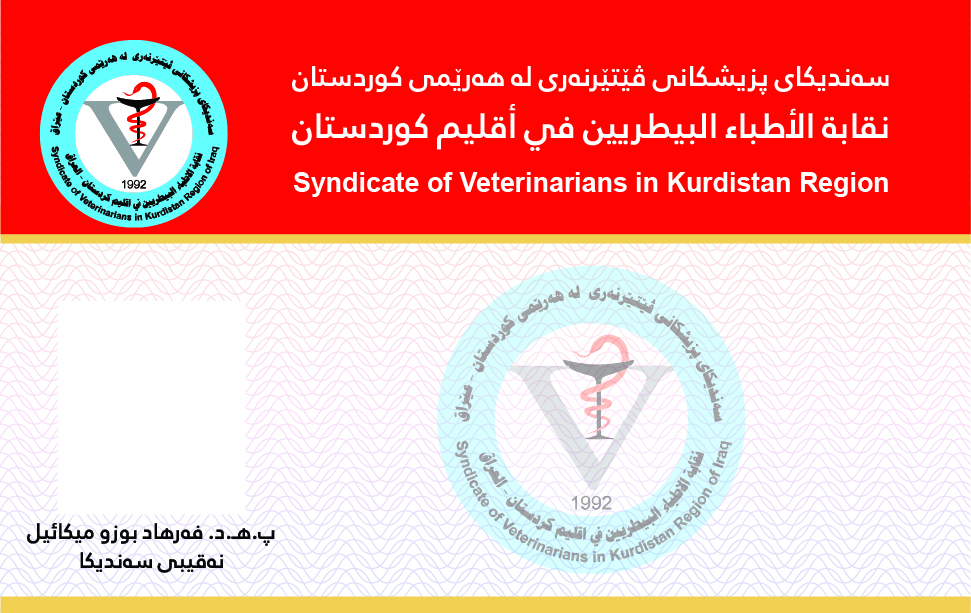
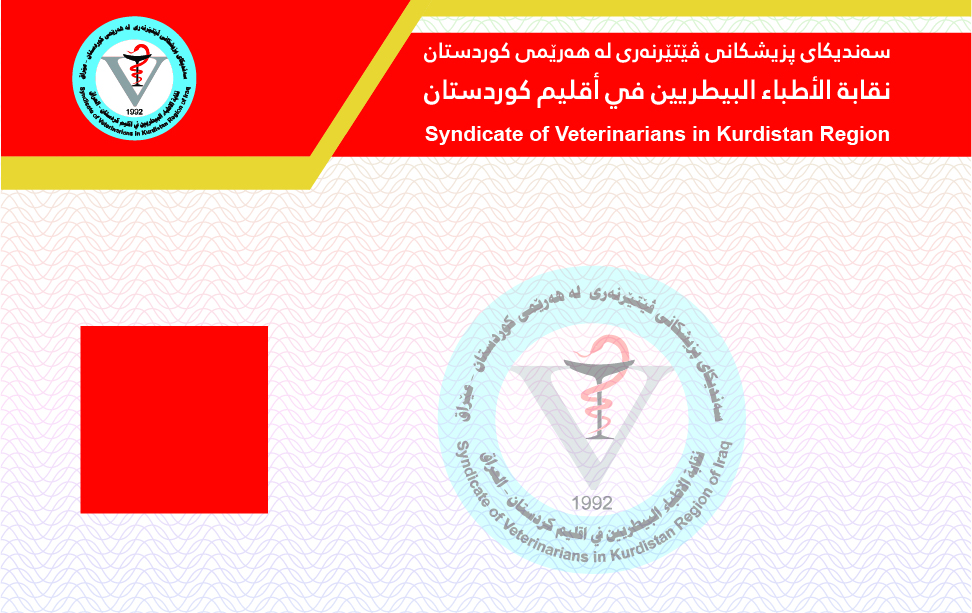
feat: enhance member ID card with blood group information and update city prefix mapping
- Added blood group information retrieval from linked applications to the member ID card.
- Updated city prefix mapping for member IDs to use full city codes (e.g., ERB, DUH, ZKO).
- Adjusted layout and positioning of elements on the member ID card for improved readability.

diff --git a/app/member-id-card/[id]/page.tsx b/app/member-id-card/[id]/page.tsx
@@ -16,6 +16,7 @@ interface MemberData {
   qrCodeId: string;
   issueDate: string;
   expiryDate: string;
+  bloodGroup: string | null;
   cityCode: string | null;
   qrDataUrl: string;
 }
@@ -227,20 +228,6 @@ export default function MemberIdCardPage() {
                 }}
               />
             )}
-
-            {/* Stamp — in front of photo */}
-            <img
-              src="/stamp.png"
-              alt="Stamp"
-              style={{
-                position: "absolute",
-                top: "100px", // ← STAMP vertical position
-                left: "85px", // ← STAMP horizontal position
-                width: "55px", // ← STAMP size
-                height: "55px",
-                opacity: 0.85,
-              }}
-            />
 
             {/* Signature — in front of photo */}
             <img
@@ -457,7 +444,7 @@ export default function MemberIdCardPage() {
             <div
               style={{
                 position: "absolute",
-                top: "160px",
+                top: "155px",
                 left: "140px",
                 right: "15px",
                 textAlign: "right",
@@ -470,12 +457,41 @@ export default function MemberIdCardPage() {
               {member.memberId}
             </div>
 
+            {/* Label: Blood Group */}
+            <div
+              style={{
+                ...labelStyle,
+                position: "absolute",
+                top: "175px",
+                left: "140px",
+              }}
+            >
+              B.G./گروپی خوێن/فصيلة الدم
+            </div>
+
+            {/* Blood Group Value */}
+            <div
+              style={{
+                position: "absolute",
+                top: "190px",
+                left: "140px",
+                right: "15px",
+                textAlign: "right",
+                fontSize: "13px",
+                fontWeight: "normal",
+                color: "#1a1a1a",
+                lineHeight: "1.2",
+              }}
+            >
+              {member.bloodGroup || "—"}
+            </div>
+
             {/* Label: بەرواری بەسەرچوون (Expiry Date) */}
             <div
               style={{
                 ...labelStyle,
                 position: "absolute",
-                top: "200px",
+                top: "210px",
                 left: "140px",
               }}
             >
@@ -486,7 +502,7 @@ export default function MemberIdCardPage() {
             <div
               style={{
                 position: "absolute",
-                top: "215px",
+                top: "225px",
                 left: "140px",
                 right: "15px",
                 textAlign: "right",

diff --git a/app/api/vet-members/[id]/id-card/route.ts b/app/api/vet-members/[id]/id-card/route.ts
@@ -1,7 +1,7 @@
 import { NextRequest, NextResponse } from "next/server";
 import { auth } from "@/lib/auth/auth";
 import { db } from "@/lib/db";
-import { vetMembers, cities } from "@/lib/db/schema";
+import { vetMembers, vetApplications, cities } from "@/lib/db/schema";
 import { eq } from "drizzle-orm";
 import QRCode from "qrcode";
 
@@ -43,6 +43,12 @@ export async function GET(
       .from(cities)
       .where(eq(cities.id, member.cityId));
 
+    // Get blood type from linked application
+    const [application] = await db
+      .select({ bloodType: vetApplications.bloodType })
+      .from(vetApplications)
+      .where(eq(vetApplications.id, member.applicationId));
+
     // Generate QR code as data URL (with caching)
     const baseUrl = process.env.NEXTAUTH_URL || "http://localhost:3000";
     const verifyUrl = `${baseUrl}/verify/${member.qrCodeId}`;
@@ -78,6 +84,7 @@ export async function GET(
         qrCodeId: member.qrCodeId,
         issueDate: member.issueDate,
         expiryDate: member.expiryDate,
+        bloodGroup: application?.bloodType || null,
         cityCode: city?.code || null,
         qrDataUrl: qrDataUrl,
       },

diff --git a/app/api/vet-applications/[id]/approve/route.ts b/app/api/vet-applications/[id]/approve/route.ts
@@ -67,11 +67,11 @@ export async function POST(
       return NextResponse.json({ error: "City not found" }, { status: 404 });
     }
 
-    // Map city codes to single-letter prefixes
+    // Map city codes to member ID prefixes
     const cityPrefixMap: Record<string, string> = {
-      "ERB": "H",  // Hewlêr (Erbil)
-      "DHK": "D",  // Duhok
-      "ZKH": "Z",  // Zakho
+      "ERB": "ERB",  // Erbil
+      "DHK": "DUH",  // Duhok
+      "ZKH": "ZKO",  // Zakho
     };
 
     const prefix = cityPrefixMap[city.code];
@@ -82,7 +82,7 @@ export async function POST(
       );
     }
 
-    // Generate member ID with city prefix (e.g., H001, D001, Z001)
+    // Generate member ID with city prefix (e.g., ERB001, DUH001, ZKO001)
     const [cityMemberCount] = await db
       .select({ count: count() })
       .from(vetMembers)

diff --git a/lib/db/schema.ts b/lib/db/schema.ts
@@ -273,7 +273,7 @@ export const vetMembers = pgTable("vet_members", {
   emailAddress: text("email_address"),
   jobLocation: text("job_location"),
   scientificRank: text("scientific_rank"),  // NEW: Academic/scientific rank
-  
+
   // ID details
   qrCodeId: text("qr_code_id").notNull().unique(),
   issueDate: timestamp("issue_date").defaultNow().notNull(),
